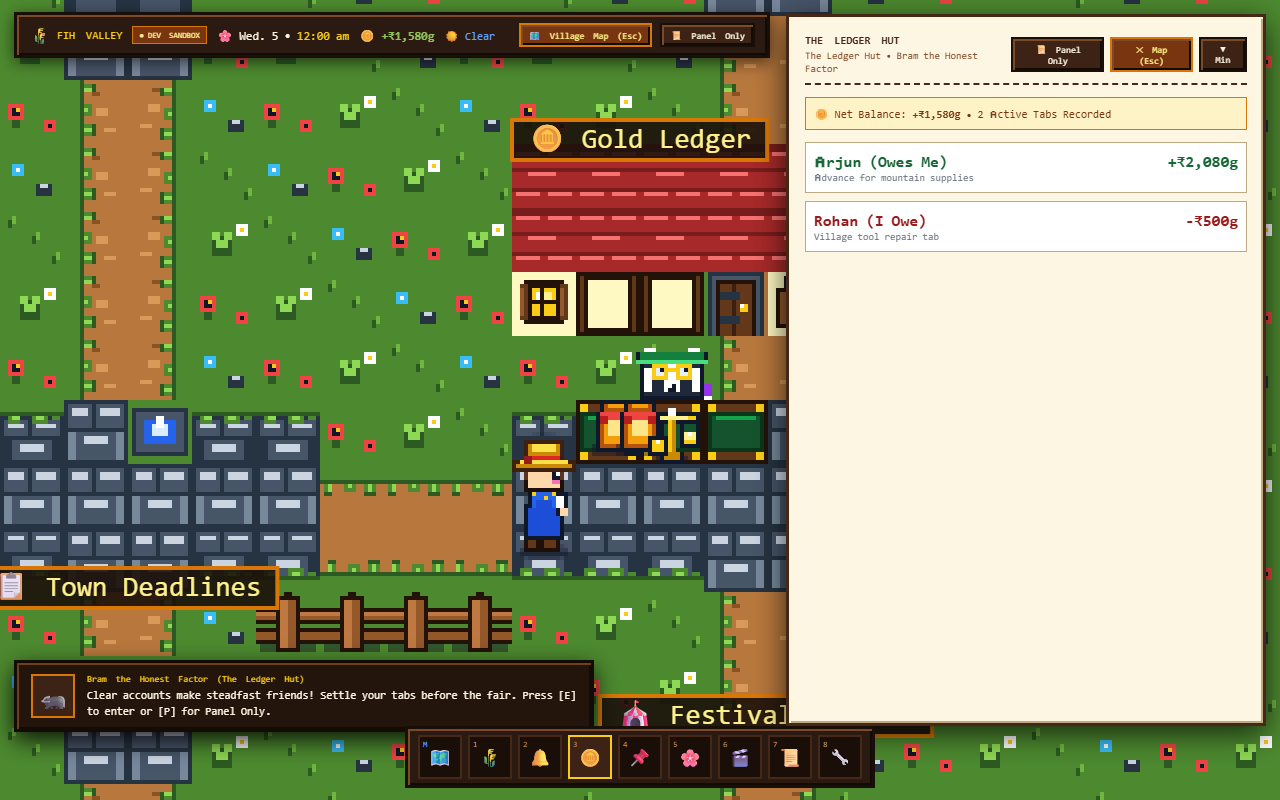
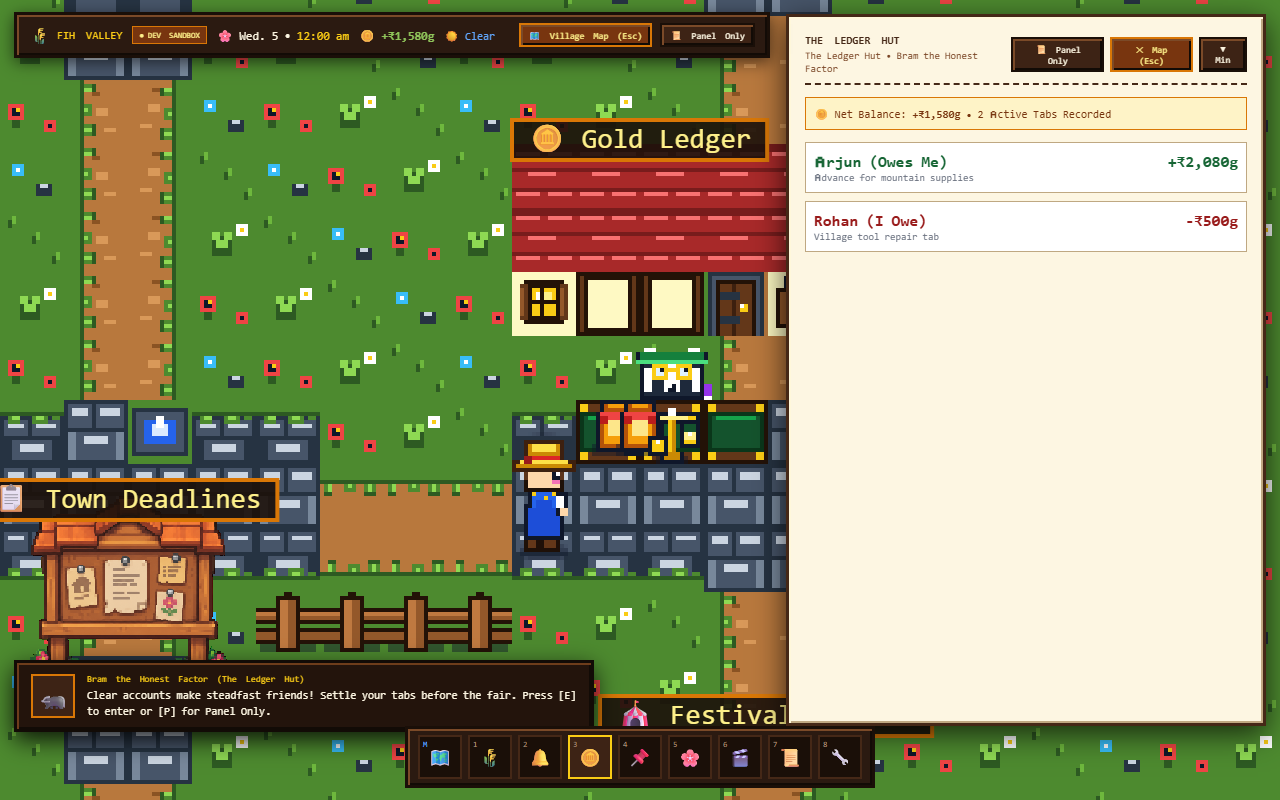
feat(overworld): replace notice board with custom pixel art model

Changed region(s): [[0.0, 0.5938, 0.2188, 0.8438]]

diff --git a/components/world/PixelWorldCanvas.jsx b/components/world/PixelWorldCanvas.jsx
@@ -71,11 +71,11 @@ export const BUILDING_HITBOXES = [
     doorX: 18 * TILE_SIZE,
     doorY: 16 * TILE_SIZE,
     minX: 16 * TILE_SIZE,
-    minY: 14 * TILE_SIZE,
-    maxX: 21 * TILE_SIZE,
-    maxY: 18 * TILE_SIZE,
+    minY: 13 * TILE_SIZE,
+    maxX: 20 * TILE_SIZE,
+    maxY: 16 * TILE_SIZE,
     bannerX: 18 * TILE_SIZE,
-    bannerY: 14 * TILE_SIZE - 6,
+    bannerY: 13 * TILE_SIZE - 12,
   },
   {
     id: 'dates',
@@ -426,7 +426,7 @@ export default function PixelWorldCanvas({
   const lastReportedNearbyRef = useRef(undefined);
 
   const stateRef = useRef({
-    images: { tileset: null, pip: null, bram: null, farmhouse: null },
+    images: { tileset: null, pip: null, bram: null, farmhouse: null, notice_board: null },
     loaded: false,
     camera: { x: 18 * 16, y: 12 * 16 }, // Center at Village Square on spawn
     targetCamera: { x: 18 * 16, y: 12 * 16 },
@@ -453,6 +453,7 @@ export default function PixelWorldCanvas({
       { key: 'pip', src: '/assets/characters/pip_walk.png' },
       { key: 'bram', src: '/assets/characters/bram_factor.png' },
       { key: 'farmhouse', src: '/assets/buildings/farmhouse.png' },
+      { key: 'notice_board', src: '/assets/buildings/notice_board.png' },
     ];
 
     let count = 0;
@@ -987,15 +988,24 @@ export default function PixelWorldCanvas({
         },
       });
 
-      // ── 4. Chapter 4: The Notice Board (x: 18, y: 16) ──
+      // ── 4. Chapter 4: The Notice Board (New Custom Notice Board) ──
       renderables.push({
-        y: 17 * TILE_SIZE,
+        y: 15 * TILE_SIZE + 6,
         render: () => {
-          const nx = 17 * TILE_SIZE;
-          const ny = 15 * TILE_SIZE;
-          ctx.drawImage(tileset, 4 * TILE_SIZE, 4 * TILE_SIZE, TILE_SIZE, TILE_SIZE, nx, ny, TILE_SIZE, TILE_SIZE);
-          ctx.drawImage(tileset, 4 * TILE_SIZE, 4 * TILE_SIZE, TILE_SIZE, TILE_SIZE, nx + TILE_SIZE, ny, TILE_SIZE, TILE_SIZE);
-          ctx.drawImage(tileset, 6 * TILE_SIZE, 5 * TILE_SIZE, TILE_SIZE, TILE_SIZE, nx + 2 * TILE_SIZE, ny, TILE_SIZE, TILE_SIZE);
+          const boardImg = state.images.notice_board;
+          const bW = 52;
+          const bH = 46;
+          const bX = 18 * TILE_SIZE - bW / 2; // 262px
+          const bY = 15 * TILE_SIZE - bH + 6; // 200px
+          if (boardImg) {
+            ctx.drawImage(boardImg, bX, bY, bW, bH);
+          } else {
+            const nx = 17 * TILE_SIZE;
+            const ny = 15 * TILE_SIZE;
+            ctx.drawImage(tileset, 4 * TILE_SIZE, 4 * TILE_SIZE, TILE_SIZE, TILE_SIZE, nx, ny, TILE_SIZE, TILE_SIZE);
+            ctx.drawImage(tileset, 4 * TILE_SIZE, 4 * TILE_SIZE, TILE_SIZE, TILE_SIZE, nx + TILE_SIZE, ny, TILE_SIZE, TILE_SIZE);
+            ctx.drawImage(tileset, 6 * TILE_SIZE, 5 * TILE_SIZE, TILE_SIZE, TILE_SIZE, nx + 2 * TILE_SIZE, ny, TILE_SIZE, TILE_SIZE);
+          }
         },
       });
 

diff --git a/tests/worldEngine.test.js b/tests/worldEngine.test.js
@@ -162,6 +162,21 @@ describe('Continuous Village Chapter Anchors (Addendum Section 3)', () => {
     expect(hitHouse).not.toBeNull();
     expect(hitHouse.id).toBe('todos');
     expect(hitHouse.name).toBe('The Farmstead');
+
+    // Clicking on the new Notice Board (at tx: 18, ty: 14) hits The Notice Board
+    const hitBoard = getHitBuilding(18 * 16, 14 * 16);
+    expect(hitBoard).not.toBeNull();
+    expect(hitBoard.id).toBe('deadlines');
+    expect(hitBoard.name).toBe('The Notice Board');
+  });
+
+  it('detects viewing pad proximity for the custom Notice Board', async () => {
+    const { getNearbyBuilding } = await import('../components/world/PixelWorldCanvas');
+
+    // Standing on the viewing pad in front of the board at (tx: 18, ty: 16) detects The Notice Board
+    const nearby = getNearbyBuilding(18 * 16, 16 * 16, 36);
+    expect(nearby).not.toBeNull();
+    expect(nearby.id).toBe('deadlines');
   });
 
   it('detects front porch door proximity for the custom Farmstead house', async () => {

diff --git a/public/assets/ATLAS.md b/public/assets/ATLAS.md
@@ -107,3 +107,9 @@ This document lists every sprite, frame layout, and coordinate in `/public/asset
 - **World Rendering:** Scaled to 76×79 world px (placed at world coordinates x: 92, y: 37)
 - **Features:** Terracotta tiled roof with twin gables, stone masonry chimney on right, rustic wooden door with stone doorstep, wooden flowerbox planter with pink blossoms, blue-paned window, glowing amber lantern, attic dormer window, cut-stone foundation.
 - **Interactive Role:** Chapter 1: The Farmstead (Daily Quests / Todos). Door entrance at world position `(8 * 16, 7 * 16 + 4)`.
+
+### The Notice Board (`notice_board.png`)
+- **Source:** User Custom Sprite (Cropped to 752×665 px, transparent alpha background)
+- **World Rendering:** Scaled to 52×46 world px (placed at world coordinates x: 262, y: 200)
+- **Features:** Timber support posts with stone footing pedestals and pink flower shrubs, terracotta shingled canopy roof, multi-page pinned community notices (house sketch parchment, central town manifest with torn lower hem, list docket, botanical flower illustration).
+- **Interactive Role:** Chapter 4: The Notice Board (Town Deadlines). Viewing pad at world position `(18 * 16, 16 * 16)`.
